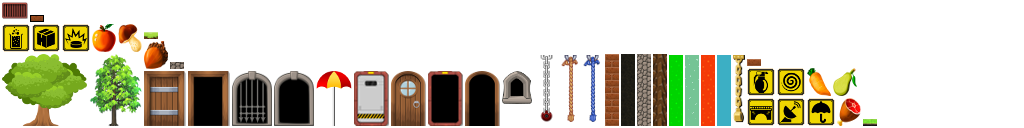
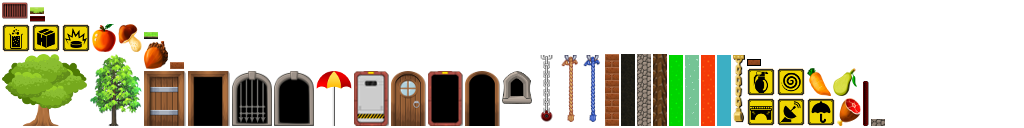
Added drawing of Beam and BeamChunk objects

diff --git a/core/src/ru/mitrakov/self/rush/ui/Gui.java b/core/src/ru/mitrakov/self/rush/ui/Gui.java
@@ -113,6 +113,7 @@ public class Gui extends Actor {
     private final IntMap<AnimInfo> texturesAnimWolf = new IntMap<AnimInfo>(100);
     private final IntMap<Animation<TextureRegion>> animLadders = new IntMap<Animation<TextureRegion>>(STYLES_COUNT);
     private final FloatArray animTime = new FloatArray(Field.HEIGHT * Field.WIDTH);
+    private final ObjectSet<Class> heightOffsets = new ObjectSet<Class>(1);
     private final Animation<TextureRegion> animWaterfall;
     private final Animation<TextureRegion> animWaterfallSmall;
     private final Animation<TextureRegion> animAntidote;
@@ -179,7 +180,7 @@ public class Gui extends Actor {
                 texturesCollectible.put(clazz, texture);
         }
         // overlay
-        for (Class clazz : new Class[]{Umbrella.class, Box.class}) {
+        for (Class clazz : new Class[]{Umbrella.class, Box.class, Beam.class, BeamChunk.class}) {
             TextureRegion texture = atlasUp.findRegion(clazz.getSimpleName());
             if (texture != null)
                 texturesOverlay.put(clazz, texture);
@@ -228,6 +229,8 @@ public class Gui extends Actor {
                 animTime.add(BIG_VALUE);
             }
         }
+        // fill offsets
+        heightOffsets.add(BeamChunk.class);
     }
 
     @Override
@@ -360,6 +363,8 @@ public class Gui extends Actor {
                     if (obj != null) {
                         TextureRegion texture = map.get(obj.getClass());
                         if (texture != null) {
+                            if (heightOffsets.contains(obj.getClass()))
+                                bottomHeight -= texture.getRegionHeight();
                             float x = convertXFromModelToScreen(i) - (texture.getRegionWidth() - bottomWidth) / 2;
                             float y = convertYFromModelToScreen(j) + bottomHeight;
                             batch.draw(texture, x, y);
